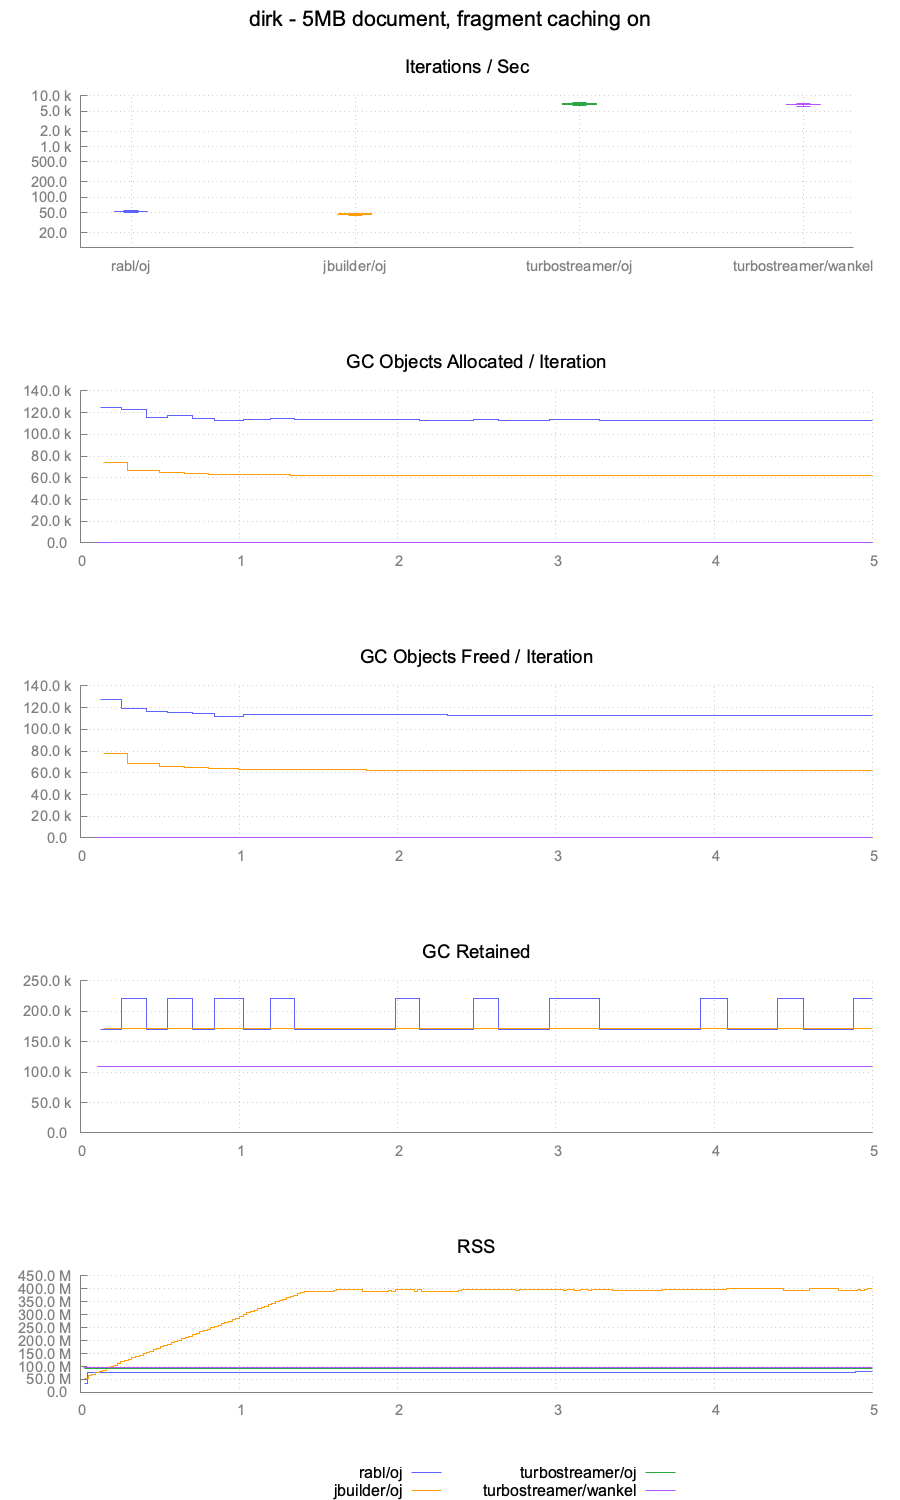
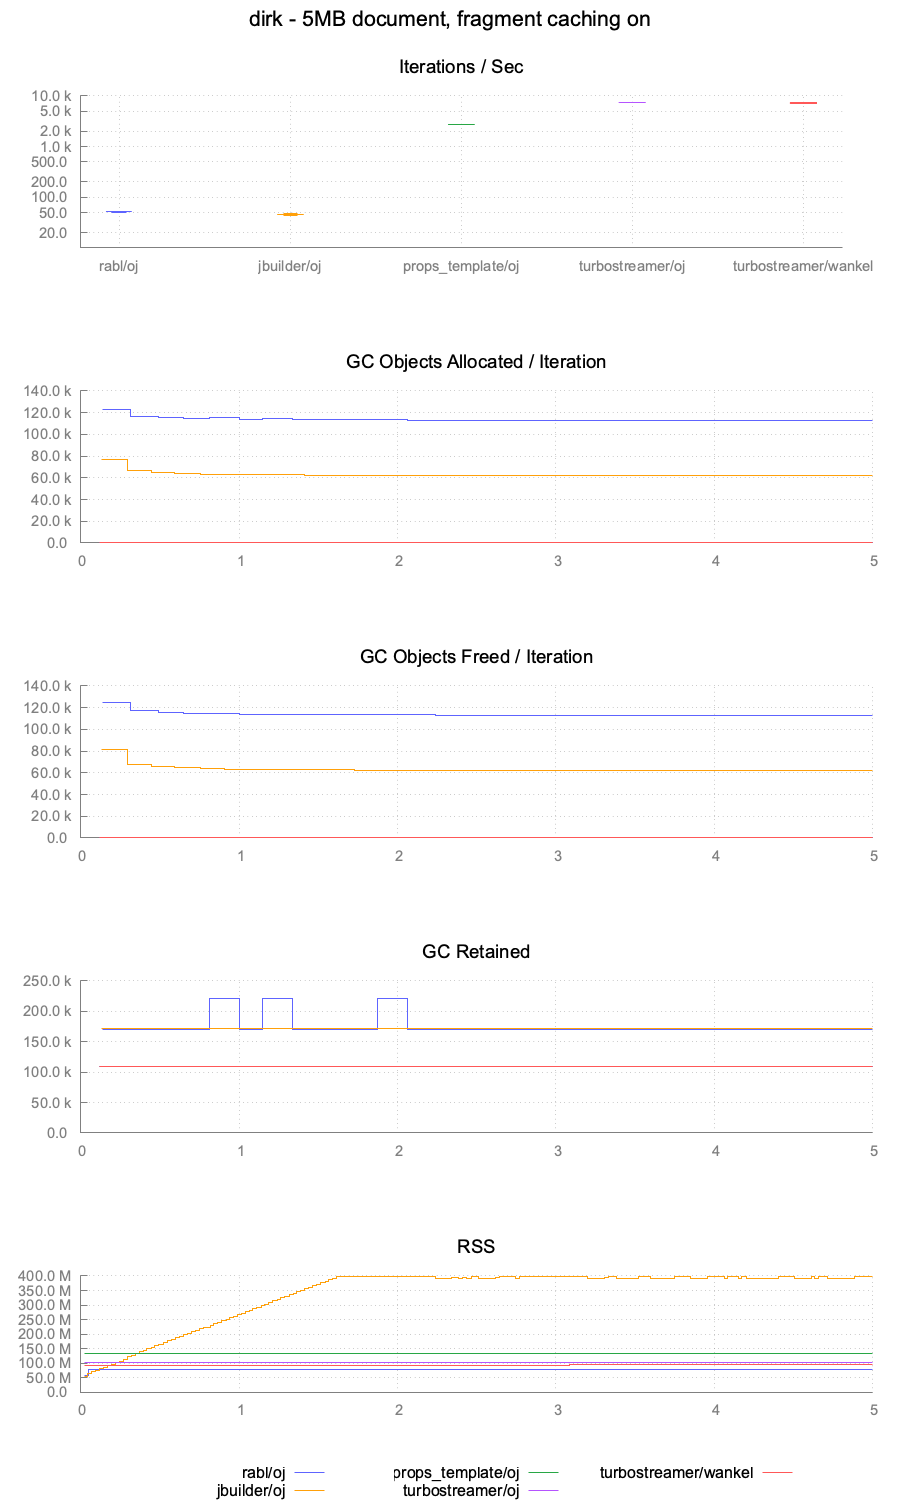
Add props_template to the performance suites
props_template is the closest comparison TurboStreamer has: the other
direct-to-encoder builder, and the other one that caches serialized bytes
rather than a structure to re-serialize. It was missing from both suites,
which left the reports comparing TurboStreamer only against libraries
that build a Hash first.

Adding it changes what the README can claim. TurboStreamer was described
as "the only one that caches serialized bytes"; that is no longer true,
and with a cached fragment the field now splits into two byte-cachers and
two structure-cachers rather than TurboStreamer against everyone. The
prose is rewritten around the measured numbers:

                        uncached          cached
    rolftimmermans (22KB)
      rabl              10411.1            5069.3
      jbuilder           1805.8            4724.6
      props_template     2423.4           85745.4
      turbostreamer/oj   2905.9          109534.8
      turbostreamer/wan  1675.8           85603.1
    dirk (5MB)
      rabl                 70.7              53.2
      jbuilder             22.5              44.5
      props_template       34.7            2723.7
      turbostreamer/oj     36.8            7510.8
      turbostreamer/wan    22.7            7328.6

TurboStreamer's Oj encoder still leads in all four runs, but the uncached
margin over props_template is narrow (1.20x and 1.06x), and that is now
stated rather than left implied.

Both fairness checks pass. The documents are byte-identical to the
[…]

diff --git a/performance/rolftimmermans/props_template/oj.rb b/performance/rolftimmermans/props_template/oj.rb
@@ -1,0 +1,82 @@
+require 'props_template'
+require 'oj'
+
+# Must come after the require: props_template loads its railtie when Rails is
+# already defined, and this stub is only here to give the cache somewhere to go.
+module Rails
+  def self.cache
+    @cache ||= ActiveSupport::Cache::MemoryStore.new
+  end
+end
+
+# props_template's Props::Cache#cache_key calls context.cache_fragment_name
+# without a respond_to? guard, where turbostreamer and jbuilder fall back to the
+# bare key when the context does not define it. Defined on a subclass rather
+# than on the shared FakeContext so the other implementations keep the code path
+# they had before this file existed.
+class PropsContext < FakeContext
+  def cache_fragment_name(key, **options)
+    key
+  end
+end
+
+Props::Template.class_eval do
+  def self.encode!(context, options = {})
+    json = new(context, options)
+    yield json
+    json.result!
+  end
+end
+
+# The cached fragment covers the same subtree as the other implementations, but
+# props_template caches internal nodes only -- the value, not the key -- so the
+# cached bytes are the article body where turbostreamer's are
+# `"article":{...}`. That is each library's own idiom; the emitted document is
+# identical.
+def render_props_template
+  Props::Template.encode!(PropsContext.new) do |json|
+    json.generated_at $date
+    json.request_id $next_request_id.call
+
+    json.article(cache: 'article_fragment') do
+      json.author do
+        json.name $author.name
+        json.birthyear $author.birthyear
+        json.bio $author.bio
+      end
+      json.title "Profiling Jbuilder"
+      json.body "How to profile Jbuilder"
+      json.date $date
+
+      json.references do
+        json.array! $arr do |ref|
+          json.name "Introduction to profiling"
+          json.url "http://example.com/"
+        end
+      end
+
+      json.comments do
+        json.array! $arr do |comment|
+          json.author do
+            json.name $author.name
+            json.birthyear $author.birthyear
+            json.bio $author.bio
+          end
+          json.email "rolf@example.com"
+          json.body "Great article"
+          json.date $date
+        end
+      end
+    end
+
+    json.total_comments $arr.size
+  end
+end
+
+# Fill the cache
+render_props_template
+
+# Everthing before this is run once initially, after is the test
+__SETUP__
+
+render_props_template

diff --git a/performance/dirk/props_template/oj.rb b/performance/dirk/props_template/oj.rb
@@ -1,0 +1,72 @@
+require 'props_template'
+require 'oj'
+
+# Must come after the require: props_template loads its railtie when Rails is
+# already defined, and this stub is only here to give the cache somewhere to go.
+module Rails
+  def self.cache
+    @cache ||= ActiveSupport::Cache::MemoryStore.new
+  end
+end
+
+# props_template's Props::Cache#cache_key calls context.cache_fragment_name
+# without a respond_to? guard, where turbostreamer and jbuilder fall back to the
+# bare key when the context does not define it. Defined on a subclass rather
+# than on the shared FakeContext so the other implementations keep the code path
+# they had before this file existed.
+class PropsContext < FakeContext
+  def cache_fragment_name(key, **options)
+    key
+  end
+end
+
+Props::Template.class_eval do
+  def self.encode!(context, options = {})
+    json = new(context, options)
+    yield json
+    json.result!
+  end
+end
+
+# The cached fragment covers the same subtree as the other implementations, but
+# props_template caches internal nodes only -- the value, not the key -- so the
+# cached bytes are `{"items":...}` where turbostreamer's are `"cached":{...}`.
+# That is each library's own idiom; the emitted document is identical.
+def render_props_template
+  Props::Template.encode!(PropsContext.new) do |json|
+    json.generated_at $date
+    json.request_id $next_request_id.call
+
+    json.cached(cache: 'ptcached') do
+      json.items do
+        json.array! 0..100 do |i|
+          json.a i
+          json.b i
+          json.c i
+          json.d i
+          json.e i
+
+          json.subitems do
+            json.array! 0..100 do |j|
+              json.f i.to_s * j
+              json.g i.to_s * j
+              json.h i.to_s * j
+              json.i i.to_s * j
+              json.j i.to_s * j
+            end
+          end
+        end
+      end
+    end
+
+    json.item_count 101
+  end
+end
+
+# Fill the cache
+render_props_template
+
+# Everthing before this is run once initially, after is the test
+__SETUP__
+
+render_props_template

diff --git a/README.md b/README.md
@@ -470,12 +470,19 @@ builders themselves.
 Caching is toggled with the `PERFORM_CACHING` environment variable. It has to be
 set on `ActionController::Base` and on the render context together — RABL
 consults the former through `Rabl::Helpers#template_cache_configured?`, while
-TurboStreamer and jbuilder ask the controller they are rendered with. Setting
-only one leaves the other library's caching silently disabled.
+TurboStreamer, props_template and jbuilder ask the controller they are rendered
+with. Setting only one leaves the other library's caching silently disabled.
 
-All four implementations produce the same document — byte-identical output
-(TurboStreamer's Oj encoder appends a trailing newline), the same fragment
-cached under the same key, and the same live values rendered outside it. RABL
+props_template additionally requires the render context to define
+`cache_fragment_name`, which it calls unguarded where TurboStreamer and jbuilder
+fall back to the bare key. The suites give it that method on a subclass rather
+than on the shared context, so the other implementations keep the code path they
+had before it was added.
+
+All five implementations produce the same document — byte-identical output
+(the two Oj-backed builders append a trailing newline), the same subtree cached
+as the fragment, and the same live values rendered outside it. Each library
+caches under its own key and namespace, so none can read another's entry. RABL
 runs with `cache_sources` enabled so no implementation touches the filesystem
 inside the measured loop.
 
@@ -486,9 +493,17 @@ and the rest of the request add the same absolute cost to every library, which
 narrows every relative gap — most of all uncached, where RABL's lead comes from
 handing a finished Ruby Hash to Oj's single C-level pass rather than from a
 faster builder; among the builder DSLs, TurboStreamer's Oj encoder is the
-fastest uncached in both suites. With a cached fragment it is the fastest
-outright and by a wide margin, because it is the only one that caches
-serialized bytes rather than a structure to re-serialize. The GC panels are normalized per iteration, not per
+fastest uncached in both suites, though only narrowly over props_template
+(1.20x here, 1.06x on the 5MB document).
+
+With a cached fragment the field splits by *what* each library caches, not by
+how fast it builds. TurboStreamer and props_template both cache serialized
+bytes and splice them into the output, so a hit costs a copy; RABL and jbuilder
+cache the data structure and deserialize and re-serialize it on every hit. That
+is worth an order of magnitude or more, and it puts props_template — the other
+direct-to-encoder builder — in the same band as TurboStreamer rather than with
+the other two. TurboStreamer's Oj encoder is still the fastest cached in both
+suites, by 1.28x on the 22KB document and 2.76x on the 5MB one. The GC panels are normalized per iteration, not per
 second — implementations complete vastly different amounts of work in the same
 five seconds, and a per-second axis would make the fastest one look the most
 wasteful. The iterations axis is logarithmic for the same reason. RSS is a
@@ -502,21 +517,26 @@ cached fragment; `generated_at`, `request_id` and `total_comments` stay live.
 The document comes from [rolftimmermans](https://github.com/rolftimmermans)'
 [jbuilder#54](https://github.com/rails/jbuilder/pull/54) (2012).
 
-<img src="https://raw.githubusercontent.com/malomalo/turbostreamer/master/performance/rolftimmermans/report-uncached.png" width="600" alt="rolftimmermans without caching: iterations/sec, GC and RSS for rabl, jbuilder and turbostreamer">
+<img src="https://raw.githubusercontent.com/malomalo/turbostreamer/master/performance/rolftimmermans/report-uncached.png" width="600" alt="rolftimmermans without caching: iterations/sec, GC and RSS for rabl, jbuilder, props_template and turbostreamer">
 
-Rebuilt every iteration, RABL leads by roughly 3.5x: its template evaluates to a
-Ruby Hash that Oj serializes in one C-level pass, where the builder DSLs walk
-the same structure through roughly 800 Ruby method calls. At this size there is
-nothing to stream.
+Rebuilt every iteration, RABL leads by roughly 3.5x (10,411 i/s against
+TurboStreamer's 2,906): its template evaluates to a Ruby Hash that Oj serializes
+in one C-level pass, where the builder DSLs walk the same structure through
+roughly 800 Ruby method calls. At this size there is nothing to stream. The
+three builder DSLs land close together — TurboStreamer 2,906, props_template
+2,423, jbuilder 1,806.
 
-<img src="https://raw.githubusercontent.com/malomalo/turbostreamer/master/performance/rolftimmermans/report-cached.png" width="600" alt="rolftimmermans with caching: iterations/sec, GC and RSS for rabl, jbuilder and turbostreamer">
+<img src="https://raw.githubusercontent.com/malomalo/turbostreamer/master/performance/rolftimmermans/report-cached.png" width="600" alt="rolftimmermans with caching: iterations/sec, GC and RSS for rabl, jbuilder, props_template and turbostreamer">
 
-With the fragment cached the ranking inverts and the gap is roughly
-twenty-fold, and it comes from *what* each library caches. TurboStreamer caches
-the fragment's serialized JSON and splices those bytes into the output stream,
-so a hit costs a copy and no serialization. RABL and jbuilder cache the data
-structure — RABL's key is `rabl/article_fragment//hash` — so a hit deserializes
-the cached objects and re-serializes them into the response every time.
+With the fragment cached the ranking inverts and the field splits in two, along
+the line of *what* each library caches. TurboStreamer (109,535 i/s) and
+props_template (85,745) cache the fragment's serialized JSON and splice those
+bytes into the output, so a hit costs a copy and no serialization. RABL (5,069)
+and jbuilder (4,725) cache the data structure — RABL's key is
+`rabl/article_fragment//hash` — so a hit deserializes the cached objects and
+re-serializes them into the response every time. That is a seventeen- to
+twenty-two-fold difference between the two groups, against 1.28x between the two
+byte-cachers.
 
 ### dirk — 5MB document
 
@@ -528,24 +548,29 @@ The document comes from [dirk](https://github.com/dirk), in
 (2015) — a thread proposing caching improvements, which is why it is shaped
 around a single large cacheable block.
 
-<img src="https://raw.githubusercontent.com/malomalo/turbostreamer/master/performance/dirk/report-uncached.png" width="600" alt="dirk without caching: iterations/sec, GC and RSS for rabl, jbuilder and turbostreamer">
+<img src="https://raw.githubusercontent.com/malomalo/turbostreamer/master/performance/dirk/report-uncached.png" width="600" alt="dirk without caching: iterations/sec, GC and RSS for rabl, jbuilder, props_template and turbostreamer">
 
-Rebuilt every iteration, RABL leads by about 2x: one Oj pass over a finished
-object graph beats roughly 51,000 Ruby-level DSL calls. Note the RSS panel,
-where building the document costs every implementation several hundred MB.
+Rebuilt every iteration, RABL leads by about 2x (70.7 i/s against
+TurboStreamer's 36.8): one Oj pass over a finished object graph beats roughly
+51,000 Ruby-level DSL calls. The builder DSLs are again close, and closer than
+at 22KB — props_template 34.7, jbuilder 22.5. Note the RSS panel, where building
+the document costs every implementation several hundred MB.
 
-<img src="https://raw.githubusercontent.com/malomalo/turbostreamer/master/performance/dirk/report-cached.png" width="600" alt="dirk with caching: iterations/sec, GC and RSS for rabl, jbuilder and turbostreamer">
+<img src="https://raw.githubusercontent.com/malomalo/turbostreamer/master/performance/dirk/report-cached.png" width="600" alt="dirk with caching: iterations/sec, GC and RSS for rabl, jbuilder, props_template and turbostreamer">
 
-With the fragment cached the same split appears, and the larger the cached
-fragment the more the re-serialization costs: TurboStreamer re-emits 5MB of
-cached bytes while RABL and jbuilder deserialize and re-serialize 5MB of cached
-objects. At this size a cache hit is actually *slower* for RABL than rebuilding
-from scratch — the effect reported against jbuilder in
+With the fragment cached the same split appears and widens, because the larger
+the cached fragment the more the re-serialization costs. The two byte-cachers
+re-emit 5MB of cached bytes — TurboStreamer 7,511 i/s, props_template 2,724 —
+while RABL (53.2) and jbuilder (44.5) deserialize and re-serialize 5MB of cached
+objects, leaving two orders of magnitude between the groups. At this size a
+cache hit is actually *slower* for RABL than rebuilding from scratch, 53.2
+against 70.7 — the effect reported against jbuilder in
 [jbuilder#259](https://github.com/rails/jbuilder/issues/259), reproduced here.
-The RSS panel makes the deserialization cost visible: jbuilder climbs to
-~400MB while completing the *fewest* iterations, Marshal-loading the 5MB
-cached hash on every hit, while TurboStreamer holds around 100MB while
-producing two orders of magnitude more output.
+The gap between the two byte-cachers also opens up at this size, 2.76x against
+1.28x on the 22KB document. The RSS panel makes the deserialization cost
+visible: jbuilder climbs to ~400MB while completing the *fewest* iterations,
+Marshal-loading the 5MB cached hash on every hit, while TurboStreamer holds
+around 100MB while producing two orders of magnitude more output.
 
 Special Thanks & Contributors
 -----------------------------

diff --git a/CHANGELOG.md b/CHANGELOG.md
@@ -16,6 +16,10 @@ Unreleased
   emitted a `"null!"` key whose value was an inspected `Object`.
 * Documented that `ActionController::API` silently skips layouts unless
   `ActionView::Layouts` is included.
+* Added props_template to the `rolftimmermans` and `dirk` performance suites.
+  It is the closest comparison TurboStreamer has -- the other direct-to-encoder
+  builder that caches serialized bytes rather than a structure -- and it was
+  missing from the reports.
 
 2.0.0
 -----
